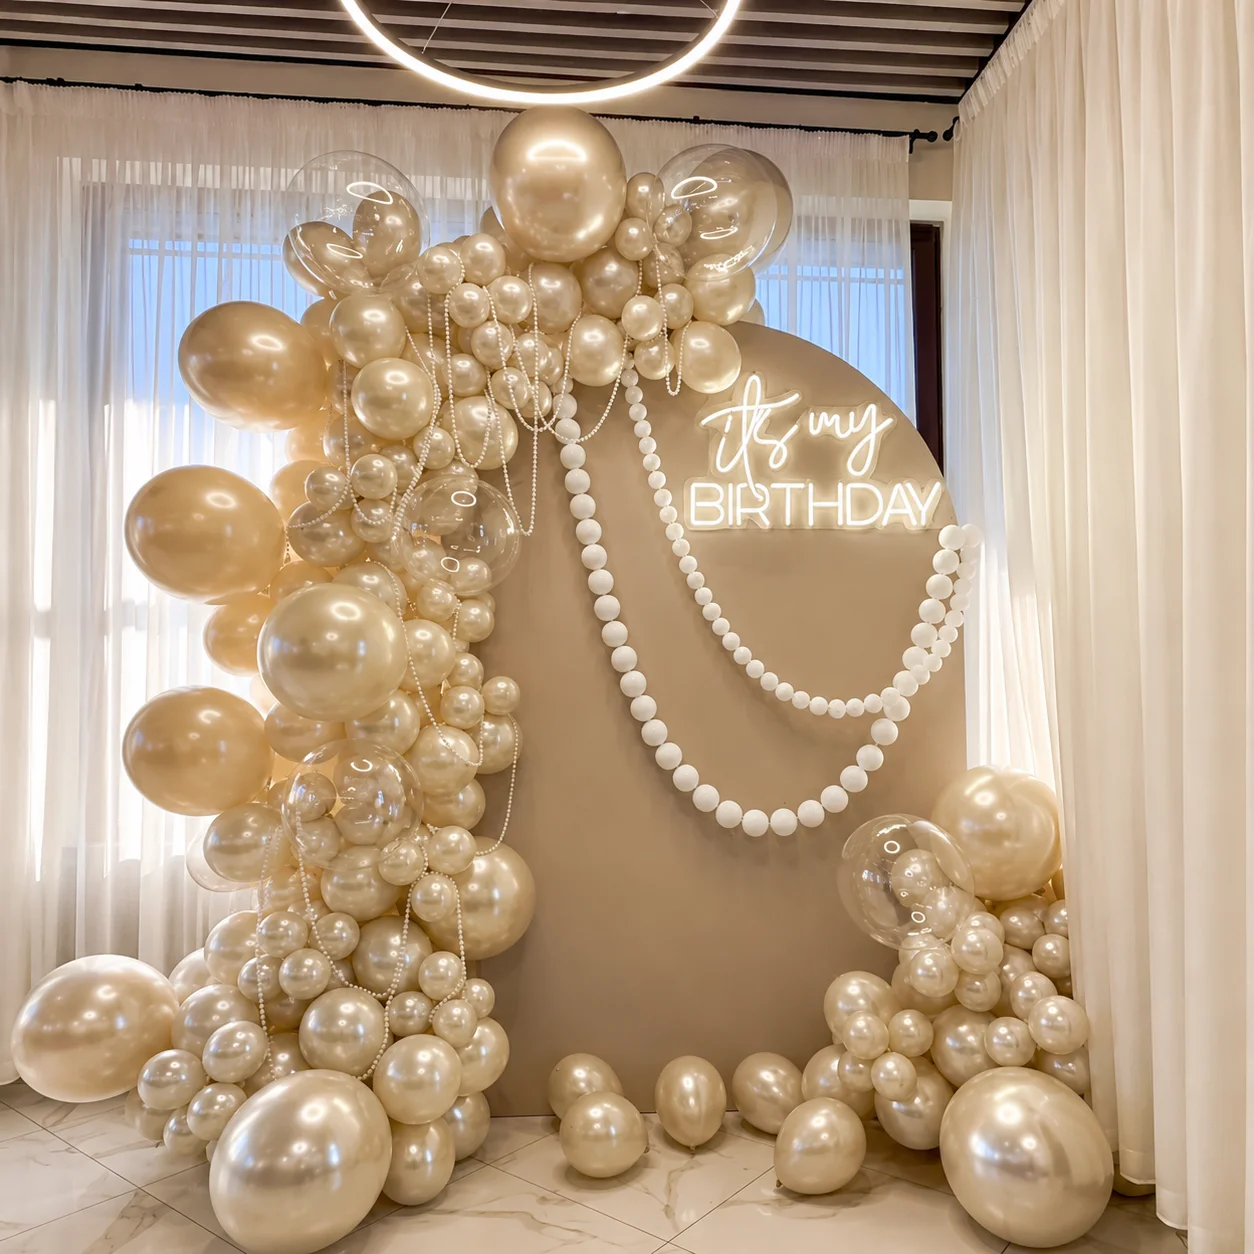
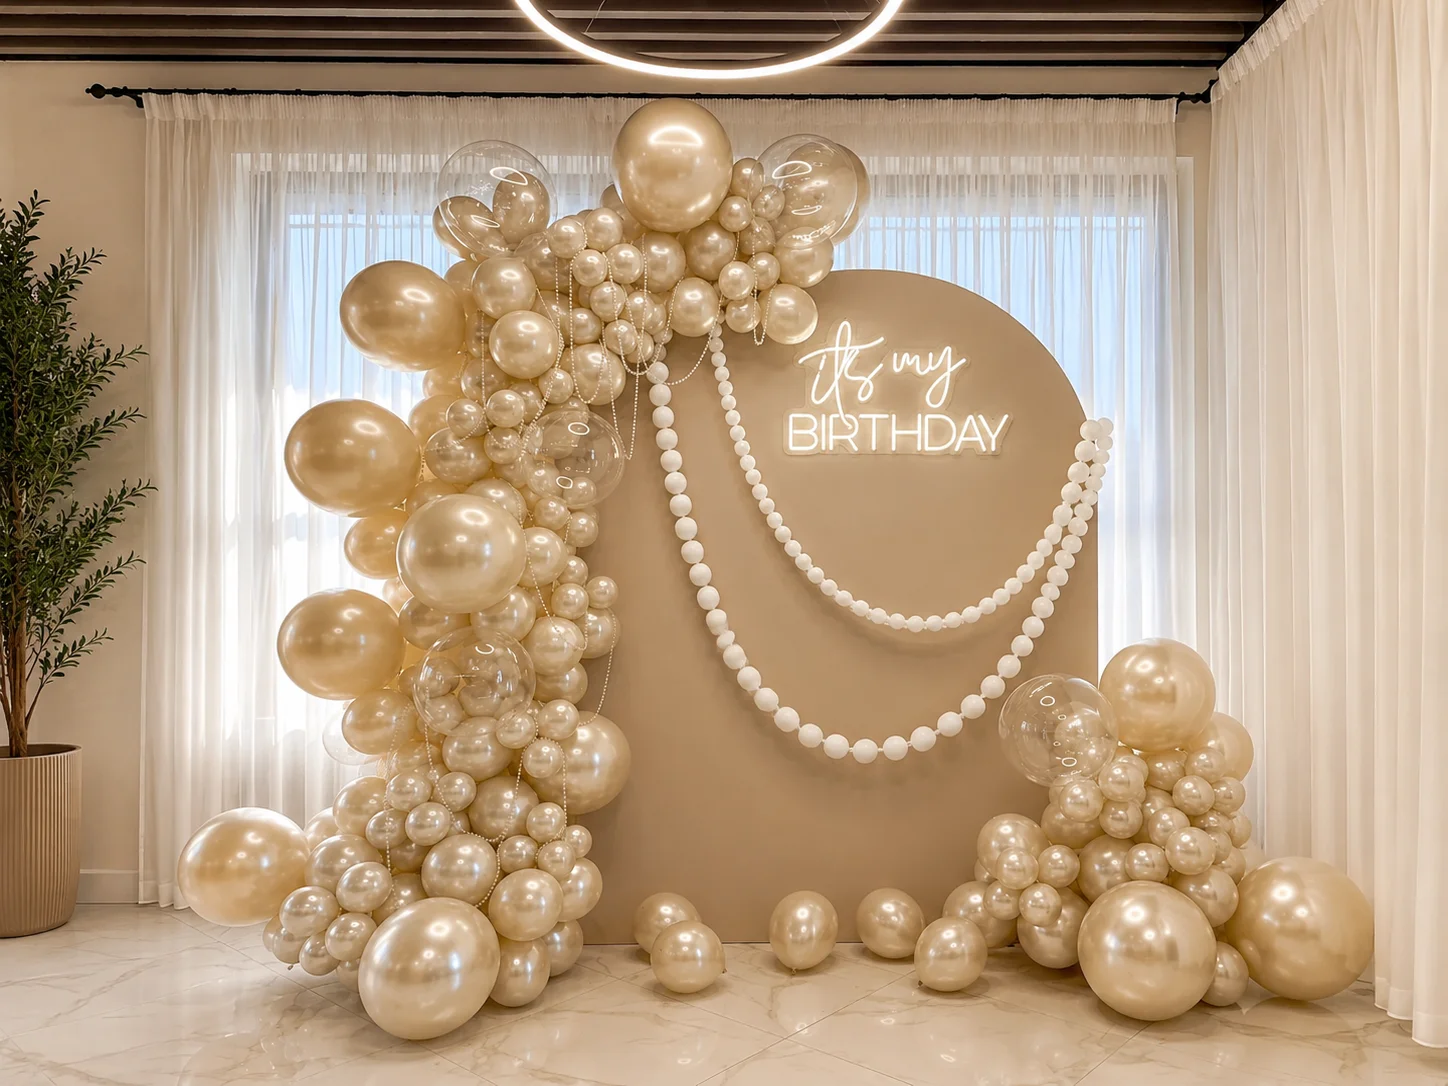
fix: updated format foto

diff --git a/index.html b/index.html
@@ -332,7 +332,7 @@
 
         <!-- Masonry Grid -->
         <div class="masonry-grid" id="portfolio-grid">
-            <div class="reveal portfolio-item" data-category="wedding" onclick="openLightbox(0)">
+            <div class="reveal portfolio-item" data-category="wedding" onclick="openLightbox(this)">
                 <div class="img-zoom rounded-2xl overflow-hidden relative aspect-[4/3] cursor-pointer">
                     <img src="https://image.qwenlm.ai/public_source/f52fee29-9ae0-4fed-b3b8-59b420a59646/16f25dcea-7b51-4206-a112-93dd71bf099c.png"
                         alt="Свадебная фотозона" class="w-full h-full object-cover">
@@ -349,7 +349,7 @@
                 </div>
             </div>
 
-            <div class="reveal portfolio-item" data-category="gender-party" onclick="openLightbox(1)">
+            <div class="reveal portfolio-item" data-category="gender-party" onclick="openLightbox(this)">
                 <div class="img-zoom rounded-2xl overflow-hidden relative aspect-[4/3] cursor-pointer">
                     <img src="picture/gender-party/detskaya-fotozona-minsk-shary.webp"
                         alt="Фотозона для гендер пати в Минске" class="w-full h-full object-cover">
@@ -366,7 +366,7 @@
                 </div>
             </div>
 
-            <div class="reveal portfolio-item" data-category="kids" onclick="openLightbox(2)">
+            <div class="reveal portfolio-item" data-category="kids" onclick="openLightbox(this)">
                 <div class="img-zoom rounded-2xl overflow-hidden relative aspect-[4/3] cursor-pointer">
                     <img src="picture/children-parties/detskaya-fotozona-minsk-prazdnik.webp"
                         alt="Детская фотозона в Минске для праздника" class="w-full h-full object-cover">
@@ -383,7 +383,7 @@
                 </div>
             </div>
 
-            <div class="reveal portfolio-item" data-category="wedding" onclick="openLightbox(3)">
+            <div class="reveal portfolio-item" data-category="wedding" onclick="openLightbox(this)">
                 <div class="img-zoom rounded-2xl overflow-hidden relative aspect-[4/3] cursor-pointer">
                     <img src="https://image.qwenlm.ai/public_source/f52fee29-9ae0-4fed-b3b8-59b420a59646/106f3c4d8-1ab5-4de5-969b-8a34c6ffcdfb.png"
                         alt="Свадебная фотозона LOVE" class="w-full h-full object-cover">
@@ -400,7 +400,7 @@
                 </div>
             </div>
 
-            <div class="reveal portfolio-item" data-category="birthday" onclick="openLightbox(4)">
+            <div class="reveal portfolio-item" data-category="birthday" onclick="openLightbox(this)">
                 <div class="img-zoom rounded-2xl overflow-hidden relative aspect-[4/3] cursor-pointer">
                     <img src="picture/birthday/fotozona-den-rozhdeniya-minsk-happy-birthday.webp"
                         alt="Фотозона для дня рождения в Минске с надписью Happy Birthday"
@@ -418,7 +418,7 @@
                 </div>
             </div>
 
-            <div class="reveal portfolio-item" data-category="birthday" onclick="openLightbox(5)">
+            <div class="reveal portfolio-item" data-category="birthday" onclick="openLightbox(this)">
                 <div class="img-zoom rounded-2xl overflow-hidden relative aspect-[4/3] cursor-pointer">
                     <img src="picture/birthday/fotozona-den-rozhdeniya-minsk-shary.webp"
                         alt="Фотозона на день рождения в Минске с шарами и праздничным декором"
@@ -436,7 +436,7 @@
                 </div>
             </div>
 
-            <div class="reveal portfolio-item" data-category="birthday" onclick="openLightbox(6)">
+            <div class="reveal portfolio-item" data-category="birthday" onclick="openLightbox(this)">
                 <div class="img-zoom rounded-2xl overflow-hidden relative aspect-[4/3] cursor-pointer">
                     <img src="picture/birthday/fotozona-den-rozhdeniya-minsk-stil.webp"
                         alt="Стильная фотозона для дня рождения в Минске" class="w-full h-full object-cover">
@@ -453,7 +453,7 @@
                 </div>
             </div>
 
-            <div class="reveal portfolio-item" data-category="birthday" onclick="openLightbox(7)">
+            <div class="reveal portfolio-item" data-category="birthday" onclick="openLightbox(this)">
                 <div class="img-zoom rounded-2xl overflow-hidden relative aspect-[4/3] cursor-pointer">
                     <img src="picture/birthday/fotozona-den-rozhdeniya-minsk-dekor.webp"
                         alt="Праздничный декор и фотозона для дня рождения в Минске" class="w-full h-full object-cover">
@@ -470,7 +470,7 @@
                 </div>
             </div>
 
-            <div class="reveal portfolio-item" data-category="birthday" onclick="openLightbox(8)">
+            <div class="reveal portfolio-item" data-category="birthday" onclick="openLightbox(this)">
                 <div class="img-zoom rounded-2xl overflow-hidden relative aspect-[4/3] cursor-pointer">
                     <img src="picture/birthday/fotozona-den-rozhdeniya-minsk-scena.webp"
                         alt="Фотозона сцена для дня рождения в Минске с шарами" class="w-full h-full object-cover">
@@ -487,7 +487,7 @@
                 </div>
             </div>
 
-            <div class="reveal portfolio-item" data-category="birthday" onclick="openLightbox(9)">
+            <div class="reveal portfolio-item" data-category="birthday" onclick="openLightbox(this)">
                 <div class="img-zoom rounded-2xl overflow-hidden relative aspect-[4/3] cursor-pointer">
                     <img src="picture/birthday/fotozona-den-rozhdeniya-minsk-atmosfera.webp"
                         alt="Фотозона для дня рождения в Минске с праздничной атмосферой"
@@ -506,7 +506,7 @@
             </div>
 
             <div class="reveal portfolio-item" data-category="birthday" data-lightbox-fit="contain"
-                data-lightbox-position="center center" onclick="openLightbox(10)">
+                data-lightbox-position="center center" onclick="openLightbox(this)">
                 <div class="img-zoom rounded-2xl overflow-hidden relative aspect-[4/3] cursor-pointer">
                     <img src="picture/birthday/fotozona-den-rozhdeniya-minsk-prazdnik.webp"
                         alt="Фотозона для празднования дня рождения в Минске" class="w-full h-full object-cover">
@@ -524,7 +524,25 @@
                 </div>
             </div>
 
-            <div class="reveal portfolio-item" data-category="kids" onclick="openLightbox(11)">
+            <div class="reveal portfolio-item" data-category="birthday" onclick="openLightbox(this)">
+                <div class="img-zoom rounded-2xl overflow-hidden relative aspect-[4/3] cursor-pointer">
+                    <img src="picture/birthday/fotozona-den-rozhdeniya-minsk-korsinca.webp"
+                        alt="Фотозона на день рождения в Минске с плетёными корзинами и шарами"
+                        class="w-full h-full object-cover">
+                    <div
+                        class="absolute top-4 left-4 px-3 py-1 bg-black/60 backdrop-blur-md rounded-full text-xs font-bold text-white">
+                        День рождения</div>
+                    <div
+                        class="absolute inset-0 bg-gradient-to-t from-black/60 to-transparent opacity-0 hover:opacity-100 transition-opacity duration-300 flex items-end p-6">
+                        <div>
+                            <p class="text-white font-serif text-xl font-bold">Корзинки с шарами</p>
+                            <p class="text-white/70 text-sm mt-1">Фотозона с плетёными корзинами и выпадющими волшебными шарами</p>
+                        </div>
+                    </div>
+                </div>
+            </div>
+
+            <div class="reveal portfolio-item" data-category="kids" onclick="openLightbox(this)">
                 <div class="img-zoom rounded-2xl overflow-hidden relative aspect-[4/3] cursor-pointer">
                     <img src="https://image.qwenlm.ai/public_source/f52fee29-9ae0-4fed-b3b8-59b420a59646/165e0b6bd-4715-4c7e-b9a2-144924a50385.png"
                         alt="Детская фотозона единорог" class="w-full h-full object-cover">
@@ -541,7 +559,7 @@
                 </div>
             </div>
 
-            <div class="reveal portfolio-item" data-category="kids" onclick="openLightbox(12)">
+            <div class="reveal portfolio-item" data-category="kids" onclick="openLightbox(this)">
                 <div class="img-zoom rounded-2xl overflow-hidden relative aspect-[4/3] cursor-pointer">
                     <img src="picture/children-parties/detskaya-fotozona-minsk-dekor.webp"
                         alt="Детская фотозона в Минске с шарами и декором" class="w-full h-full object-cover">
@@ -558,7 +576,7 @@
                 </div>
             </div>
 
-            <div class="reveal portfolio-item" data-category="wedding" onclick="openLightbox(13)">
+            <div class="reveal portfolio-item" data-category="wedding" onclick="openLightbox(this)">
                 <div class="img-zoom rounded-2xl overflow-hidden relative aspect-[4/3] cursor-pointer">
                     <img src="picture/wedding/svadebnaya-fotozona-minsk-kompoziciya.webp"
                         alt="Свадебная фотозона в Минске с декоративной композицией" class="w-full h-full object-cover">
@@ -575,7 +593,7 @@
                 </div>
             </div>
 
-            <div class="reveal portfolio-item" data-category="wedding" onclick="openLightbox(14)">
+            <div class="reveal portfolio-item" data-category="wedding" onclick="openLightbox(this)">
                 <div class="img-zoom rounded-2xl overflow-hidden relative aspect-[3/5] cursor-pointer">
                     <img src="picture/wedding/svadebnaya-fotozona-minsk-bloom.webp"
                         alt="Свадебная фотозона в Минске в цветочной стилистике" class="w-full h-full object-cover">
@@ -592,7 +610,7 @@
                 </div>
             </div>
 
-            <div class="reveal portfolio-item" data-category="wedding" onclick="openLightbox(15)">
+            <div class="reveal portfolio-item" data-category="wedding" onclick="openLightbox(this)">
                 <div class="img-zoom rounded-2xl overflow-hidden relative aspect-[3/5] cursor-pointer">
                     <img src="picture/wedding/svadebnaya-fotozona-minsk-svet.webp"
                         alt="Свадебная фотозона в Минске со световым оформлением" class="w-full h-full object-cover">
@@ -609,7 +627,7 @@
                 </div>
             </div>
 
-            <div class="reveal portfolio-item" data-category="wedding" onclick="openLightbox(16)">
+            <div class="reveal portfolio-item" data-category="wedding" onclick="openLightbox(this)">
                 <div class="img-zoom rounded-2xl overflow-hidden relative aspect-[3/5] cursor-pointer">
                     <img src="picture/wedding/svadebnaya-fotozona-minsk-sad.webp"
                         alt="Свадебная фотозона сад в Минске с цветами" class="w-full h-full object-cover">
@@ -626,7 +644,7 @@
                 </div>
             </div>
 
-            <div class="reveal portfolio-item" data-category="wedding" onclick="openLightbox(17)">
+            <div class="reveal portfolio-item" data-category="wedding" onclick="openLightbox(this)">
                 <div class="img-zoom rounded-2xl overflow-hidden relative aspect-[3/5] cursor-pointer">
                     <img src="picture/wedding/svadebnaya-fotozona-minsk-green-foto.webp"
                         alt="Свадебная фотозона в Минске в зеленой гамме" class="w-full h-full object-cover">
@@ -643,7 +661,7 @@
                 </div>
             </div>
 
-            <div class="reveal portfolio-item" data-category="wedding" onclick="openLightbox(18)">
+            <div class="reveal portfolio-item" data-category="wedding" onclick="openLightbox(this)">
                 <div class="img-zoom rounded-2xl overflow-hidden relative aspect-[3/5] cursor-pointer">
                     <img src="picture/wedding/svadebnaya-fotozona-minsk-vuesd.webp"
                         alt="Свадебная фотозона на выездную регистрацию в Минске" class="w-full h-full object-cover">
@@ -660,7 +678,7 @@
                 </div>
             </div>
 
-            <div class="reveal portfolio-item" data-category="wedding" onclick="openLightbox(19)">
+            <div class="reveal portfolio-item" data-category="wedding" onclick="openLightbox(this)">
                 <div class="img-zoom rounded-2xl overflow-hidden relative aspect-[3/5] cursor-pointer">
                     <img src="picture/wedding/svadebnaya-fotozona-minsk-cvety.webp"
                         alt="Свадебная фотозона в Минске с цветами и декором" class="w-full h-full object-cover">
@@ -677,7 +695,7 @@
                 </div>
             </div>
 
-            <div class="reveal portfolio-item" data-category="wedding" onclick="openLightbox(20)">
+            <div class="reveal portfolio-item" data-category="wedding" onclick="openLightbox(this)">
                 <div class="img-zoom rounded-2xl overflow-hidden relative aspect-[4/3] cursor-pointer">
                     <img src="picture/wedding/svadebnaya-fotozona-minsk-green-stol.webp"
                         alt="Свадебный декор стола в Минске в зеленой гамме" class="w-full h-full object-cover">
@@ -694,7 +712,7 @@
                 </div>
             </div>
 
-            <div class="reveal portfolio-item" data-category="wedding" onclick="openLightbox(21)">
+            <div class="reveal portfolio-item" data-category="wedding" onclick="openLightbox(this)">
                 <div class="img-zoom rounded-2xl overflow-hidden relative aspect-[4/3] cursor-pointer">
                     <img src="picture/wedding/svadebnaya-fotozona-minsk-suhoy.webp"
                         alt="Свадебный декор в Минске с сухоцветами" class="w-full h-full object-cover">
@@ -712,7 +730,7 @@
                 </div>
             </div>
 
-            <div class="reveal portfolio-item" data-category="wedding" onclick="openLightbox(22)">
+            <div class="reveal portfolio-item" data-category="wedding" onclick="openLightbox(this)">
                 <div class="img-zoom rounded-2xl overflow-hidden relative aspect-[4/3] cursor-pointer">
                     <img src="picture/wedding/svadebnaya-fotozona-minsk-dofamin.webp"
                         alt="Свадебный декор в Минске в дофаминовой палитре" class="w-full h-full object-cover">
@@ -729,7 +747,7 @@
                 </div>
             </div>
 
-            <div class="reveal portfolio-item" data-category="wedding" onclick="openLightbox(23)">
+            <div class="reveal portfolio-item" data-category="wedding" onclick="openLightbox(this)">
                 <div class="img-zoom rounded-2xl overflow-hidden relative aspect-[4/3] cursor-pointer">
                     <img src="picture/wedding/svadebnaya-fotozona-minsk-menu.webp"
                         alt="Свадебное меню и декор стола в Минске" class="w-full h-full object-cover">
@@ -746,7 +764,7 @@
                 </div>
             </div>
 
-            <div class="reveal portfolio-item" data-category="wedding" onclick="openLightbox(24)">
+            <div class="reveal portfolio-item" data-category="wedding" onclick="openLightbox(this)">
                 <div class="img-zoom rounded-2xl overflow-hidden relative aspect-[4/3] cursor-pointer">
                     <img src="picture/wedding/svadebnaya-fotozona-minsk-orange-rose.webp"
                         alt="Свадебный декор в Минске с оранжевыми розами" class="w-full h-full object-cover">
@@ -763,7 +781,7 @@
                 </div>
             </div>
 
-            <div class="reveal portfolio-item" data-category="wedding" onclick="openLightbox(25)">
+            <div class="reveal portfolio-item" data-category="wedding" onclick="openLightbox(this)">
                 <div class="img-zoom rounded-2xl overflow-hidden relative aspect-[4/3] cursor-pointer">
                     <img src="picture/wedding/svadebnaya-fotozona-minsk-service-rose.webp"
                         alt="Свадебная сервировка с розами в Минске" class="w-full h-full object-cover">
@@ -780,7 +798,7 @@
                 </div>
             </div>
 
-            <div class="reveal portfolio-item" data-category="kids" onclick="openLightbox(26)">
+            <div class="reveal portfolio-item" data-category="kids" onclick="openLightbox(this)">
                 <div class="img-zoom rounded-2xl overflow-hidden relative aspect-[4/3] cursor-pointer">
                     <img src="picture/children-parties/detskaya-fotozona-minsk-green.webp"
                         alt="Детская фотозона в Минске в зеленой гамме" class="w-full h-full object-cover">
@@ -797,7 +815,7 @@
                 </div>
             </div>
 
-            <div class="reveal portfolio-item" data-category="kids" onclick="openLightbox(27)">
+            <div class="reveal portfolio-item" data-category="kids" onclick="openLightbox(this)">
                 <div class="img-zoom rounded-2xl overflow-hidden relative aspect-[4/3] cursor-pointer">
                     <img src="picture/children-parties/detskaya-fotozona-minsk-space-white.webp"
                         alt="Белая космическая детская фотозона в Минске" class="w-full h-full object-cover">
@@ -814,7 +832,7 @@
                 </div>
             </div>
 
-            <div class="reveal portfolio-item" data-category="kids" onclick="openLightbox(28)">
+            <div class="reveal portfolio-item" data-category="kids" onclick="openLightbox(this)">
                 <div class="img-zoom rounded-2xl overflow-hidden relative aspect-[4/3] cursor-pointer">
                     <img src="picture/children-parties/detskaya-fotozona-minsk-space.webp"
                         alt="Космическая детская фотозона в Минске" class="w-full h-full object-cover">
@@ -831,7 +849,7 @@
                 </div>
             </div>
 
-            <div class="reveal portfolio-item" data-category="kids" onclick="openLightbox(29)">
+            <div class="reveal portfolio-item" data-category="kids" onclick="openLightbox(this)">
                 <div class="img-zoom rounded-2xl overflow-hidden relative aspect-[4/3] cursor-pointer">
                     <img src="picture/children-parties/detskaya-fotozona-minsk-boy-one-year.webp"
                         alt="Детская фотозона на годик мальчику в Минске" class="w-full h-full object-cover">
@@ -848,7 +866,7 @@
                 </div>
             </div>
 
-            <div class="reveal portfolio-item" data-category="kids" onclick="openLightbox(30)">
+            <div class="reveal portfolio-item" data-category="kids" onclick="openLightbox(this)">
                 <div class="img-zoom rounded-2xl overflow-hidden relative aspect-[4/3] cursor-pointer">
                     <img src="picture/children-parties/detskaya-fotozona-minsk-butterflies.webp"
                         alt="Детская фотозона с бабочками в Минске" class="w-full h-full object-cover">
@@ -865,7 +883,7 @@
                 </div>
             </div>
 
-            <div class="reveal portfolio-item" data-category="kids" onclick="openLightbox(31)">
+            <div class="reveal portfolio-item" data-category="kids" onclick="openLightbox(this)">
                 <div class="img-zoom rounded-2xl overflow-hidden relative aspect-[4/3] cursor-pointer">
                     <img src="picture/children-parties/detskaya-fotozona-minsk-pink.webp"
                         alt="Розовая детская фотозона в Минске" class="w-full h-full object-cover">
@@ -882,7 +900,7 @@
                 </div>
             </div>
 
-            <div class="reveal portfolio-item" data-category="kids" onclick="openLightbox(32)">
+            <div class="reveal portfolio-item" data-category="kids" onclick="openLightbox(this)">
                 <div class="img-zoom rounded-2xl overflow-hidden relative aspect-[4/3] cursor-pointer">
                     <img src="picture/children-parties/detskaya-fotozona-minsk-odin-god.webp"
                         alt="Детская фотозона на один год в Минске" class="w-full h-full object-cover">

diff --git a/js/main.js b/js/main.js
@@ -93,7 +93,8 @@
             'Праздничный декор с шарами и декоративными элементами, который собирает пространство в единую композицию.',
             'Сценическая фотозона для дня рождения с шарами и выразительным фоном для поздравлений и семейных кадров.',
             'Атмосферная зона для дня рождения с теплым декором, подходящая для портретов и общих фото гостей.',
-            'Праздничная фотозона с шарами и ярким декором для активного дня рождения или семейного торжества.',
+            'Праздничная фотозона с шарами и яркими цифрами для вашего лучшего дня рождения.',
+            'Фотозона с плетёными корзинами и шарами: выпадающие шары с эффектом выливающегося волшебства.',
             'Сказочная детская фотозона с единорогом, гирляндами и мягкой палитрой для нежного праздника.',
             'Детская зона с воздушными шарами и декором, рассчитанная на динамичные фото и игры рядом с композицией.',
             'Свадебная композиция с декоративными формами и цветочными акцентами для зоны фото или президиума.',
@@ -119,7 +120,7 @@
         ];
         const portfolioStartingPrices = [
             740, 620, 600, 750, 550, 590, 570, 580, 650, 560, 610,
-            630, 590, 680, 730, 720, 750, 710, 700, 730, 660, 690,
+            590, 630, 590, 680, 730, 720, 750, 710, 700, 730, 660, 690,
             740, 620, 720, 650, 580, 640, 670, 600, 620, 590, 610
         ];
         let currentPortfolioFilter = 'all';
@@ -577,7 +578,10 @@
         let lightboxIndex = 0;
         let lightboxProjects = portfolioProjects;
 
-        function openLightbox(idx) {
+        function openLightbox(target) {
+            const idx = target instanceof Element
+                ? Number(target.dataset.portfolioIndex)
+                : Number(target);
             const portfolioTitle = portfolioProjects[idx]?.title || 'Проект';
             trackGoal('portfolio_click', { project: portfolioTitle });
             const item = portfolioItems[idx];

diff --git a/fotazony-na-den-rozhdeniya-minsk/index.html b/fotazony-na-den-rozhdeniya-minsk/index.html
@@ -17,7 +17,7 @@
     <meta charset="UTF-8">
     <meta name="viewport" content="width=device-width, initial-scale=1.0">
     <title>Фотозоны на день рождения в Минске | LavDragon</title>
-    <meta name="description" content="Фотозона на день рождения в Минске: шары, декор, надписи, свет, монтаж и демонтаж. Стоимость от 450 Br, дизайн под возраст, площадку и стиль праздника.">
+    <meta name="description" content="Фотозона на день рождения в Минске: шары, декор, надписи, свет, монтаж и демонтаж. Стоимость от 550 Br, дизайн под возраст, площадку и стиль праздника.">
     <link rel="canonical" href="https://lavdragon.by/fotazony-na-den-rozhdeniya-minsk/">
     <link href="https://cdn.jsdelivr.net/npm/@fontsource/inter@5.1.1/index.min.css" rel="stylesheet">
     <link href="https://cdn.jsdelivr.net/npm/@fontsource/playfair-display@5.1.1/index.min.css" rel="stylesheet">
@@ -32,9 +32,9 @@
     <header class="seo-hero px-6 md:px-12"><div class="max-w-7xl mx-auto grid lg:grid-cols-[1fr_1fr] gap-10 items-center"><div><p class="text-brand-black tracking-widest uppercase text-sm mb-4">День рождения</p><h1 class="font-serif text-4xl md:text-6xl font-bold text-brand-black leading-tight">Фотозона на день рождения в Минске с индивидуальным декором</h1><p class="mt-6 text-lg text-brand-muted leading-relaxed">Создаем праздничные фотозоны для взрослых и детских дней рождения: с шарами, надписями, стойками, цветами, светом и аккуратной цветовой палитрой под зал.</p><div class="mt-8 flex flex-wrap gap-3"><a href="../ceny-na-fotazony-minsk/" class="hero-btn hero-btn--primary">Узнать стоимость</a><a href="https://t.me/kidseventa1" class="hero-btn hero-btn--ghost !text-brand-black !border-brand-black/20">Заказать дизайн</a></div></div><img src="../picture/birthday/fotozona-den-rozhdeniya-minsk-prazdnik.webp" alt="Фотозона для празднования дня рождения в Минске" class="w-full rounded-lg aspect-[4/3] object-cover"></div></header>
     <main>
         <section class="seo-section px-6 md:px-12 bg-white/60"><div class="max-w-5xl mx-auto seo-prose"><h2 class="font-serif text-3xl md:text-4xl font-bold">Описание услуги</h2><p>Фотозона на день рождения работает как центр праздника. Возле нее встречают гостей, делают первые фото, снимают сторис, поздравления и семейные кадры. В отличие от обычной гирлянды из шаров, продуманная фотозона учитывает возраст именинника, стиль одежды, интерьер площадки, высоту потолков, освещение и то, как гости будут перемещаться по залу. Мы проектируем не просто красивый фон, а удобную зону, в которой приятно стоять, сидеть, обниматься, держать торт или подарки.</p><p>Для взрослых дней рождения часто выбирают спокойные оттенки, золото, серебро, черный, молочный, пудровый, винный, прозрачные фактуры, неон и персональные надписи. Для детских праздников важны безопасность, устойчивость конструкции и яркий, но не хаотичный визуал. Мы можем сделать фотозону в стиле любимого персонажа, воздушного облака, candy bar, нежной пастельной сцены или минималистичной party-зоны для подростка.</p><p>В стоимость обычно входят разработка идеи, подбор палитры, шары, декоративные панели, тумбы, печатные элементы, доставка, монтаж и демонтаж. Дополнительно можно добавить подсветку, неон, живые цветы, фотобудку, зону для подарков или оформление стола. Перед расчетом мы уточняем дату, адрес, желаемый размер, формат праздника и референсы.</p></div></section>
-        <section class="seo-section px-6 md:px-12"><div class="max-w-7xl mx-auto grid lg:grid-cols-3 gap-6"><div class="seo-card p-6"><h3 class="font-serif text-2xl font-bold">Базовая</h3><p class="text-3xl font-bold mt-4">от 450 Br</p><p class="text-brand-muted mt-3">Фон, шары, цифра или надпись, монтаж для небольшой площадки.</p></div><div class="seo-card p-6"><h3 class="font-serif text-2xl font-bold">Индивидуальная</h3><p class="text-3xl font-bold mt-4">от 600 Br</p><p class="text-brand-muted mt-3">Персональная концепция, несколько уровней декора, свет и фотогеничная композиция.</p></div><div class="seo-card p-6"><h3 class="font-serif text-2xl font-bold">Большой праздник</h3><p class="text-3xl font-bold mt-4">от 800 Br</p><p class="text-brand-muted mt-3">Расширенная зона, декор стола, входная группа и дополнительные элементы.</p></div></div></section>
+        <section class="seo-section px-6 md:px-12"><div class="max-w-7xl mx-auto grid lg:grid-cols-3 gap-6"><div class="seo-card p-6"><h3 class="font-serif text-2xl font-bold">Базовая</h3><p class="text-3xl font-bold mt-4">от 550 Br</p><p class="text-brand-muted mt-3">Фон, шары, цифра или надпись, монтаж для небольшой площадки.</p></div><div class="seo-card p-6"><h3 class="font-serif text-2xl font-bold">Индивидуальная</h3><p class="text-3xl font-bold mt-4">от 600 Br</p><p class="text-brand-muted mt-3">Персональная концепция, несколько уровней декора, свет и фотогеничная композиция.</p></div><div class="seo-card p-6"><h3 class="font-serif text-2xl font-bold">Большой праздник</h3><p class="text-3xl font-bold mt-4">от 800 Br</p><p class="text-brand-muted mt-3">Расширенная зона, декор стола, входная группа и дополнительные элементы.</p></div></div></section>
         <section class="seo-section px-6 md:px-12 bg-brand-ivory/60"><div class="max-w-7xl mx-auto grid lg:grid-cols-[0.8fr_1.2fr] gap-10"><div><p class="text-brand-black tracking-widest uppercase text-sm mb-2">Сроки</p><h2 class="font-serif text-3xl md:text-4xl font-bold">Как мы готовим фотозону</h2></div><div class="grid md:grid-cols-2 gap-5"><div class="seo-card p-6"><b>Бриф</b><p class="text-brand-muted mt-2">Уточняем дату, возраст, место, стиль, бюджет и обязательные элементы.</p></div><div class="seo-card p-6"><b>Смета</b><p class="text-brand-muted mt-2">Предлагаем 2-3 варианта по наполнению, чтобы выбрать оптимальный бюджет.</p></div><div class="seo-card p-6"><b>Подготовка</b><p class="text-brand-muted mt-2">Закупаем материалы, печатаем элементы, собираем конструкцию и проверяем комплект.</p></div><div class="seo-card p-6"><b>Монтаж</b><p class="text-brand-muted mt-2">Устанавливаем до прихода гостей, оставляем зону чистой и готовой к съемке.</p></div></div></div></section>
-        <section class="seo-section px-6 md:px-12"><div class="max-w-7xl mx-auto"><h2 class="font-serif text-3xl md:text-4xl font-bold text-brand-black mb-8">Примеры фотозон на день рождения</h2><div class="seo-gallery grid md:grid-cols-3 gap-5"><img src="../picture/birthday/fotozona-den-rozhdeniya-minsk-happy-birthday.webp" alt="Фотозона Happy Birthday в Минске"><img src="../picture/birthday/fotozona-den-rozhdeniya-minsk-shary.webp" alt="Фотозона с шарами на день рождения в Минске"><img src="../picture/birthday/fotozona-den-rozhdeniya-minsk-stil.webp" alt="Стильная фотозона на день рождения в Минске"></div></div></section>
+        <section class="seo-section px-6 md:px-12"><div class="max-w-7xl mx-auto"><h2 class="font-serif text-3xl md:text-4xl font-bold text-brand-black mb-8">Примеры фотозон на день рождения</h2><div class="seo-gallery grid md:grid-cols-3 gap-5"><img src="../picture/birthday/fotozona-den-rozhdeniya-minsk-happy-birthday.webp" alt="Фотозона Happy Birthday в Минске"><img src="../picture/birthday/fotozona-den-rozhdeniya-minsk-shary.webp" alt="Фотозона с шарами на день рождения в Минске"><img src="../picture/birthday/fotozona-den-rozhdeniya-minsk-korsinca.webp" alt="Фотозона на день рождения с плетёными корзинами и шарами в Минске"><img src="../picture/birthday/fotozona-den-rozhdeniya-minsk-stil.webp" alt="Стильная фотозона на день рождения в Минске"></div></div></section>
         <section class="seo-section px-6 md:px-12 bg-white/60"><div class="max-w-5xl mx-auto seo-prose"><h2 class="font-serif text-3xl md:text-4xl font-bold">FAQ</h2><h3 class="font-serif text-2xl font-bold mt-8">Можно ли заказать срочно?</h3><p>Да, если дата свободна и материалы доступны. Для простых решений иногда хватает 3-5 дней, для сложного проекта лучше закладывать 2-4 недели.</p><h3 class="font-serif text-2xl font-bold mt-8">Вы работаете с ресторанами и квартирами?</h3><p>Да. Главное заранее понимать размер зоны, доступ для монтажа и правила площадки. В квартире мы используем компактные решения без сложного крепежа.</p><h3 class="font-serif text-2xl font-bold mt-8">Можно ли повторить фото из Pinterest?</h3><p>Можно взять референс как направление, но мы адаптируем его под реальные размеры, бюджет и интерьер. Так фотозона выглядит естественно, а не как чужая картинка.</p></div></section>
     </main>
     <script src="../js/back-to-top.js"></script>